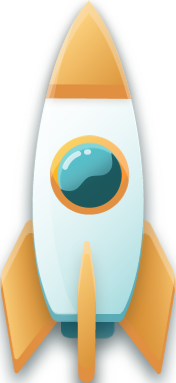
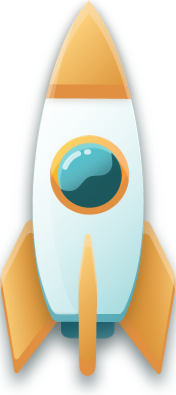
Working on emulator

diff --git a/lib/Flame/UiComponents/Rocket/RocketFlameUiControl.dart b/lib/Flame/UiComponents/Rocket/RocketFlameUiControl.dart
@@ -1,0 +1,37 @@
+import 'package:flame/components.dart';
+import 'package:flame/flame.dart';
+import 'package:flame/sprite.dart';
+
+class RocketFlameUiControl extends RectangleComponent{
+
+  final double requiredFlameWidth;
+
+  final spriteSheetSize = Vector2(1080, 1295);
+
+  RocketFlameUiControl({required this.requiredFlameWidth});
+
+  Future<void> onLoad() async {
+    var scale = requiredFlameWidth / spriteSheetSize.x;
+    final flameSize = Vector2(requiredFlameWidth, spriteSheetSize.y*scale);
+
+    size = flameSize;
+    anchor = Anchor.topCenter;
+
+    var imageInstance = await Flame.images.load('rocket/flame.png');
+    var spritesheet = SpriteSheet(
+      image: imageInstance,
+      srcSize: spriteSheetSize,
+    );
+
+    final animation = spritesheet.createAnimation(row: 0, stepTime: 0.09);
+
+    final animComponent = SpriteAnimationComponent(
+      animation: animation,
+      position: Vector2(0, 0),
+      size: flameSize,
+    );
+
+    add(animComponent);
+  }
+
+}

diff --git a/lib/Flame/UiComponents/Rocket/RocketUiControl.dart b/lib/Flame/UiComponents/Rocket/RocketUiControl.dart
@@ -2,7 +2,9 @@ import 'package:flame/components.dart';
 import 'package:flame/extensions.dart';
 import 'package:flame/flame.dart';
 
-class RocketUiControl extends SpriteComponent {
+import 'RocketFlameUiControl.dart';
+
+class RocketUiControl extends RectangleComponent {
 
   final double requiredHeight;
 
@@ -11,12 +13,19 @@ class RocketUiControl extends SpriteComponent {
   @override
   Future<void> onLoad() async {
     await super.onLoad();
+
     final image = await Flame.images.load("rocket/rocket.png");
-    sprite = Sprite(image);
 
     anchor = Anchor.topCenter;
-
     var scale = requiredHeight/image.size.y;
     size = Vector2(image.size.x*scale, image.size.y*scale);
+
+    var sprite = SpriteComponent(sprite: Sprite(image));
+    sprite.size = size;
+
+    var flame = RocketFlameUiControl(requiredFlameWidth: size.x*3);
+    flame.position = Vector2(sprite.size.x/2, requiredHeight*0.75);
+    add(flame);
+    add(sprite);
   }
 }
